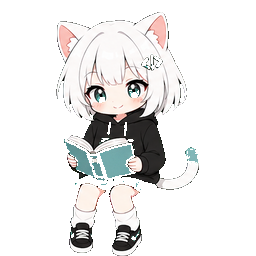
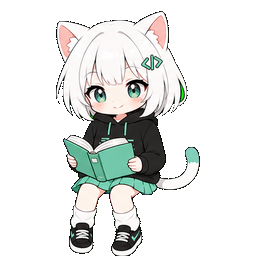
책 읽기·다리 흔들기 프레임 다시 뽑기
생성 시트에서 프레임을 잘라내는 도구를 추가하고, 두 행동의 그림을 교체했다.
다리 흔들기는 발끝이 15px 움직이는 동작이라 머리 기준으로 자동 정렬된다.

Claude-Session: https://claude.ai/code/session_01L1XvvwpfUFVaQhtfMaUHbH

diff --git a/tools_rebuild_book_leg_cutouts.py b/tools_rebuild_book_leg_cutouts.py
@@ -1,0 +1,142 @@
+import argparse
+from collections import deque
+from pathlib import Path
+
+import numpy as np
+from PIL import Image
+
+
+BASE = Path(__file__).resolve().parent
+GENERATED = Path.home() / ".codex" / "generated_images" / "019fae4b-c586-7ac1-8b51-040713d9f514"
+
+ACTION_SPECS = {
+    "book": {
+        "source": GENERATED / "call_Dq9f7cCw4sape2g6SBlJdcCL.png",
+        "grid": (3, 2),
+        "offsets": [(-40, -10), (-7, -5), (26, -2), (-40, 10), (-7, -2), (28, 8)],
+    },
+    "leg_swing": {
+        "source": GENERATED / "call_i5tCartUyzCQeefMtCT2qnwI.png",
+        "grid": (2, 2),
+        "offsets": [(-22, -2), (-2, -8), (-22, 4), (-12, 3)],
+    },
+}
+
+
+def green_key_mask(rgb):
+    pixels = np.asarray(rgb)
+    red = pixels[:, :, 0].astype(np.int16)
+    green = pixels[:, :, 1].astype(np.int16)
+    blue = pixels[:, :, 2].astype(np.int16)
+
+    # Mint details have similar green and blue levels. The generated key is
+    # distinctly greener than both neighboring channels.
+    candidate = (green > 70) & (green - red > 10) & (green - blue > 10)
+    height, width = candidate.shape
+    outside = np.zeros_like(candidate)
+    queue = deque()
+
+    for x in range(width):
+        queue.extend(((x, 0), (x, height - 1)))
+    for y in range(height):
+        queue.extend(((0, y), (width - 1, y)))
+
+    while queue:
+        x, y = queue.popleft()
+        if outside[y, x] or not candidate[y, x]:
+            continue
+        outside[y, x] = True
+        if x:
+            queue.append((x - 1, y))
+        if x + 1 < width:
+            queue.append((x + 1, y))
+        if y:
+            queue.append((x, y - 1))
+        if y + 1 < height:
+            queue.append((x, y + 1))
+
+    return np.where(outside, 0, 255).astype(np.uint8)
+
+
+def extract_frame(cell, offset):
+    alpha = Image.fromarray(green_key_mask(cell), "L")
+    rgba = cell.convert("RGBA")
+    rgba.putalpha(alpha)
+    rgba = rgba.resize((256, 256), Image.Resampling.LANCZOS)
+
+    data = np.asarray(rgba).copy()
+    data[:, :, 3] = np.where(data[:, :, 3] >= 128, 255, 0)
+
+    opaque = data[:, :, 3] == 255
+    near_clear = ~opaque
+    for _ in range(2):
+        expanded = near_clear.copy()
+        expanded[1:, :] |= near_clear[:-1, :]
+        expanded[:-1, :] |= near_clear[1:, :]
+        expanded[:, 1:] |= near_clear[:, :-1]
+        expanded[:, :-1] |= near_clear[:, 1:]
+        near_clear = expanded
+
+    red = data[:, :, 0].astype(np.int16)
+    green = data[:, :, 1].astype(np.int16)
+    blue = data[:, :, 2].astype(np.int16)
+    spill = opaque & near_clear & (green - red > 25) & (green - blue > 25)
+    y_coords = np.indices(opaque.shape)[0]
+    hair_spill = (
+        opaque
+        & near_clear
+        & (y_coords < 150)
+        & (green - red > 8)
+        & (green - blue > 8)
+    )
+    spill |= hair_spill
+    neutral = np.maximum(red, blue).astype(np.uint8)
+    data[:, :, 1] = np.where(spill, neutral, data[:, :, 1])
+    rgba = Image.fromarray(data, "RGBA")
+
+    frame = Image.new("RGBA", (256, 256))
+    frame.alpha_composite(rgba, offset)
+    return frame
+
+
+def rebuild(action, output_root):
+    spec = ACTION_SPECS[action]
+    source = Image.open(spec["source"]).convert("RGB")
+    columns, rows = spec["grid"]
+    cell_width = source.width // columns
+    cell_height = source.height // rows
+    output_dir = output_root / action
+    output_dir.mkdir(parents=True, exist_ok=True)
+
+    frame_number = 0
+    for row in range(rows):
+        for column in range(columns):
+            frame_number += 1
+            box = (
+                column * cell_width,
+                row * cell_height,
+                (column + 1) * cell_width,
+                (row + 1) * cell_height,
+            )
+            cell = source.crop(box)
+            frame = extract_frame(cell, spec["offsets"][frame_number - 1])
+            frame.save(output_dir / f"{frame_number:02}.png", optimize=True)
+
+
+def main():
+    parser = argparse.ArgumentParser()
+    parser.add_argument(
+        "--output",
+        type=Path,
+        default=BASE / "tmp" / "rebuilt_cutouts",
+        help="Root directory for rebuilt action folders.",
+    )
+    args = parser.parse_args()
+
+    for action in ACTION_SPECS:
+        rebuild(action, args.output)
+        print(f"rebuilt {action} -> {args.output / action}")
+
+
+if __name__ == "__main__":
+    main()
